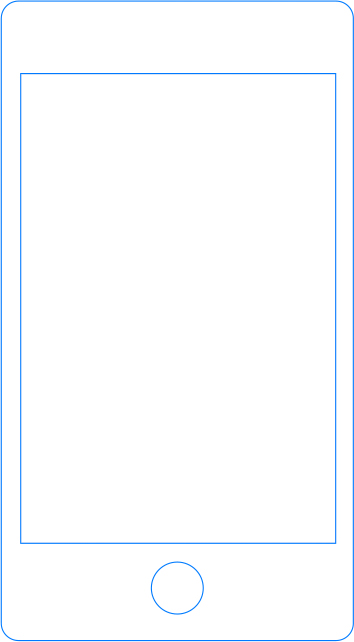
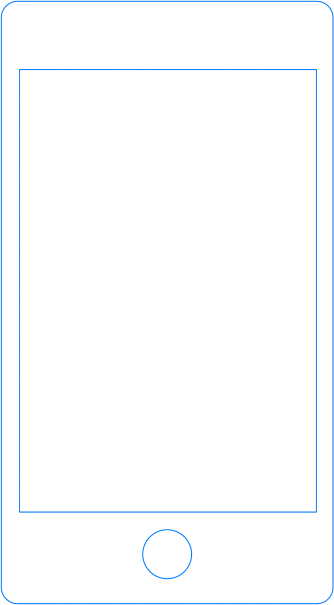
移动版拖拽

diff --git a/src/routes/Shop/routes/Editor/components/MobileEditor/index.js b/src/routes/Shop/routes/Editor/components/MobileEditor/index.js
@@ -2,7 +2,7 @@ import React, { Component, PropTypes } from 'react'
 import Product from '../../containers/ProductContainer'
 import Preview from '../../containers/PreviewContainer'
 import EditorDragLayer from '../EditorDragLayer'
-
+import '../../../../../../styles/iconfont/iconfont.css'
 import './MobileEditor.scss'
 
 
@@ -14,32 +14,50 @@ export class Editor extends Component {
 
   render() {
     const { product } = this.props
-    return <div id="mobile-editor-container">
-      <div className="cContent">
-        <div id="editor-main">
-          <div className="navThird">
-            <div className="nav-fixed">
-              <ul className="sub-nav">
-                <li className="navThirdHover">我的店铺组件</li>
-              </ul>
-              <div className="sub-nav-menu scrollbar">
-                <div className="sub-content clx">
-                  <Product {...product}/>
-                </div>
-                <div className="sub-banner"></div>
-                <div className="sub-banner"></div>
-                <p className="sub-info">鼠标按住上方店铺组件，拖动到右侧手机屏幕中进行编辑</p>
-                <a className="btn-more">更多店铺组件</a>
-              </div>
+    return <div>
+      <div className="clx">
+          <div className='sidebar'>
+            <h3 className="side-title"><i className="iconfont icon-arrR"></i>我的店铺组件</h3>
+            <Product {...product}/>
+            <div className="sub-banner-pd">
+              <div className="sub-banner"></div>
+              <div className="sub-banner"></div>
             </div>
+            <p className="sub-info"><i className="icon-circle"></i>鼠标按住上方店铺组件，拖动到右侧手机屏幕中进行编辑</p>
+            <a className="btn-more"><i className="iconfont icon-hot-control"></i>更多店铺组件</a>
           </div>
           <div className="editor-view">
             <div className="preview">
               <div className="bg-phone"></div>
               <Preview/>
             </div>
-            {/*<button onClick={::this.props.fetchProducts}>fetch</button>*/}
           </div>
+      </div>
+      <div id="mobile-editor-container">
+      <div className="cContent">
+        <div id="editor-main">
+          {/*<div className="navThird">*/}
+            {/*<div className="nav-fixed">*/}
+              {/*<ul className="sub-nav">*/}
+               {/*<li className="navThirdHover">我的店铺组件</li>*/}
+              {/*</ul>*/}
+              {/*<div className="sub-nav-menu scrollbar">*/}
+                {/*<div className="sub-content clx">*/}
+                  {/*<Product {...product}/>*/}
+                {/*</div>*/}
+                {/*<div className="sub-banner"></div>*/}
+                {/*<div className="sub-banner"></div>*/}
+                
+              {/*</div>*/}
+            {/*</div>*/}
+           {/*</div>*/}
+          {/*<div className="editor-view">*/}
+            {/*<div className="preview">*/}
+              {/*<div className="bg-phone"></div>*/}
+              {/*<Preview/>*/}
+           {/* </div>*/}
+            {/*<button onClick={::this.props.fetchProducts}>fetch</button>*/}
+          {/*</div>*/}
           {/*<div className="col-sm-2 col-md-2 bg-white">*/}
           {/*<div className="nav-fixed">*/}
           {/*<div className="editor-right sub-nav-menu">*/}
@@ -50,6 +68,7 @@ export class Editor extends Component {
         </div>
       </div>
       <EditorDragLayer/>
+    </div> 
     </div>
   }
 }

diff --git a/src/routes/Shop/routes/Editor/components/MobileEditor/MobileEditor.scss b/src/routes/Shop/routes/Editor/components/MobileEditor/MobileEditor.scss
@@ -1,5 +1,121 @@
 @import "../../../../../../layouts/CoreLayout/CoreLayout";
 
+/**************************
+ * new-mobile-editor-container
+ **************************/
+.sidebar{
+  position: fixed;
+  top: 0;
+  bottom: 0;
+  left: 0;
+  width: $default-width + 120;
+  background: $white-color;
+  .side-title{
+    padding: $default-padding-top - 28 $default-padding-left - 25;
+    font-size: $text-font-size - 4;
+    color: $white-color;
+    background: $blue-color;
+    i{
+      padding-right: $default-padding-right - 35;
+    }
+  }
+  .gui-list{
+    padding-bottom: $default-padding-bottom - 35;
+    li{
+      @include float-left;
+      width: 50%;
+      padding: $default-padding-top - 35;
+      .img{
+        border:1px solid $gray9-color;
+        background: $graye-color;
+      }
+      img{
+        margin: 0 auto;
+      } 
+    }
+  }
+  .sub-banner-pd{
+    padding: 0 $default-padding-left - 35;
+  }
+  .sub-banner{
+    margin-bottom: $default-margin-bottom - 30;
+    height: $default-height - 40;
+    border:1px solid $gray9-color;
+    background: $graye-color;
+  }
+  .sub-info{
+    padding: $default-padding-top - 25 $default-padding-left - 30;
+    font-size: $text-font-size - 6;
+    color:$gray9-color;
+    .icon-circle{
+      display:inline-block;
+      width:7px;
+      height:7px;
+      margin-right: $default-margin-right - 33;
+      background:$gray6-color;
+      border-radius:50%;
+    }
+  }
+  .btn-more{
+    display:block;
+    margin-top: $default-margin-top + 20;
+    padding: $default-padding-top - 30 0;
+    font-size: $text-font-size - 4;
+    text-align:center;
+    color: $gray6-color;
+    border-top:1px solid $graye-color;
+    border-bottom:1px solid $graye-color;
+    .icon-hot-control{
+      padding-right: $default-padding-top - 35;
+    }
+  }
+}
+.editor-view{
+  @include float-right;
+  width: $default-width + 630;
+  height: $default-height + 500;
+  background: $white-color;
+  .preview{
+    position:relative;
+    width: $default-width + 226;
+    height: $default-height + 490;
+    margin:5px auto;
+    .bg-phone{
+      width: $default-width + 226;
+      height: $default-height + 490;
+      background-size: 100%;
+      margin:5px auto;
+      background-image:url(../../../../../Home/assets/bg_phone.png);
+    }
+    .shop-info{
+      position: absolute;
+      top: 50%;
+      left: 50%;
+      margin-left: -($default-width + 183)/2;
+      margin-top: -($default-height + 353)/2;
+      width: $default-width + 184;
+      height: $default-height + 329;
+      background: #f6f5f5;
+      overflow-y: scroll;
+    }
+  }
+}
+
+@media (max-width:600px) {
+  .editor-view{
+    width: $default-width + 270;
+    height: $default-height + 860;
+    .preview{
+      .bg-phone{
+        margin:100px auto;
+      }
+      .shop-info{
+        margin-top: -225.5px;
+      }
+    }
+  }
+}
+
 $bg-phone-width:354px;
 $bg-phone-height:642px;
 

diff --git a/src/routes/Shop/routes/Editor/components/Product/DragProduct.js b/src/routes/Shop/routes/Editor/components/Product/DragProduct.js
@@ -14,13 +14,10 @@ const productSource = {
 
 const Product = ({ name, imgSrc, defaultLayout, connectDragSource }) =>
   connectDragSource(
-    <div>
       <img className={'product-img'}
-           height={140}
+           height={50}
            src={imgSrc || 'http://placeholder.qiniudn.com/100x100/808080/fff' }
            alt={name}/>
-      {/*<span>{name}-{defaultLayout.w}x{defaultLayout.h}</span>*/}
-    </div>
   )
 
 Product.propTypes = {

diff --git a/src/routes/Shop/routes/Editor/components/Product/ProductContainer.js b/src/routes/Shop/routes/Editor/components/Product/ProductContainer.js
@@ -1,8 +1,8 @@
 import React, { Component, PropTypes } from 'react'
 import DragProduct from './DragProduct'
 
-const ProductContainer = ({ products }) => (<ul>
-  {products.map((p, i)=> <li key={i}><DragProduct {...p}/></li>)}
+const ProductContainer = ({ products }) => (<ul className="gui-list clx">
+  {products.map((p, i)=> <li key={i}><div className="img"><DragProduct {...p}/></div></li>)}
 </ul>)
 
 ProductContainer.defaultProps = {

diff --git a/src/routes/Shop/routes/Editor/components/Preview/index.js b/src/routes/Shop/routes/Editor/components/Preview/index.js
@@ -21,7 +21,7 @@ export class Preview extends Component {
       cols       : 2,
       rowHeight  : 100,
       selectedCls: 'selected',
-      width      : 240,
+      width      : 270,
       margin     : [ 0, 0 ],
     }
   }
